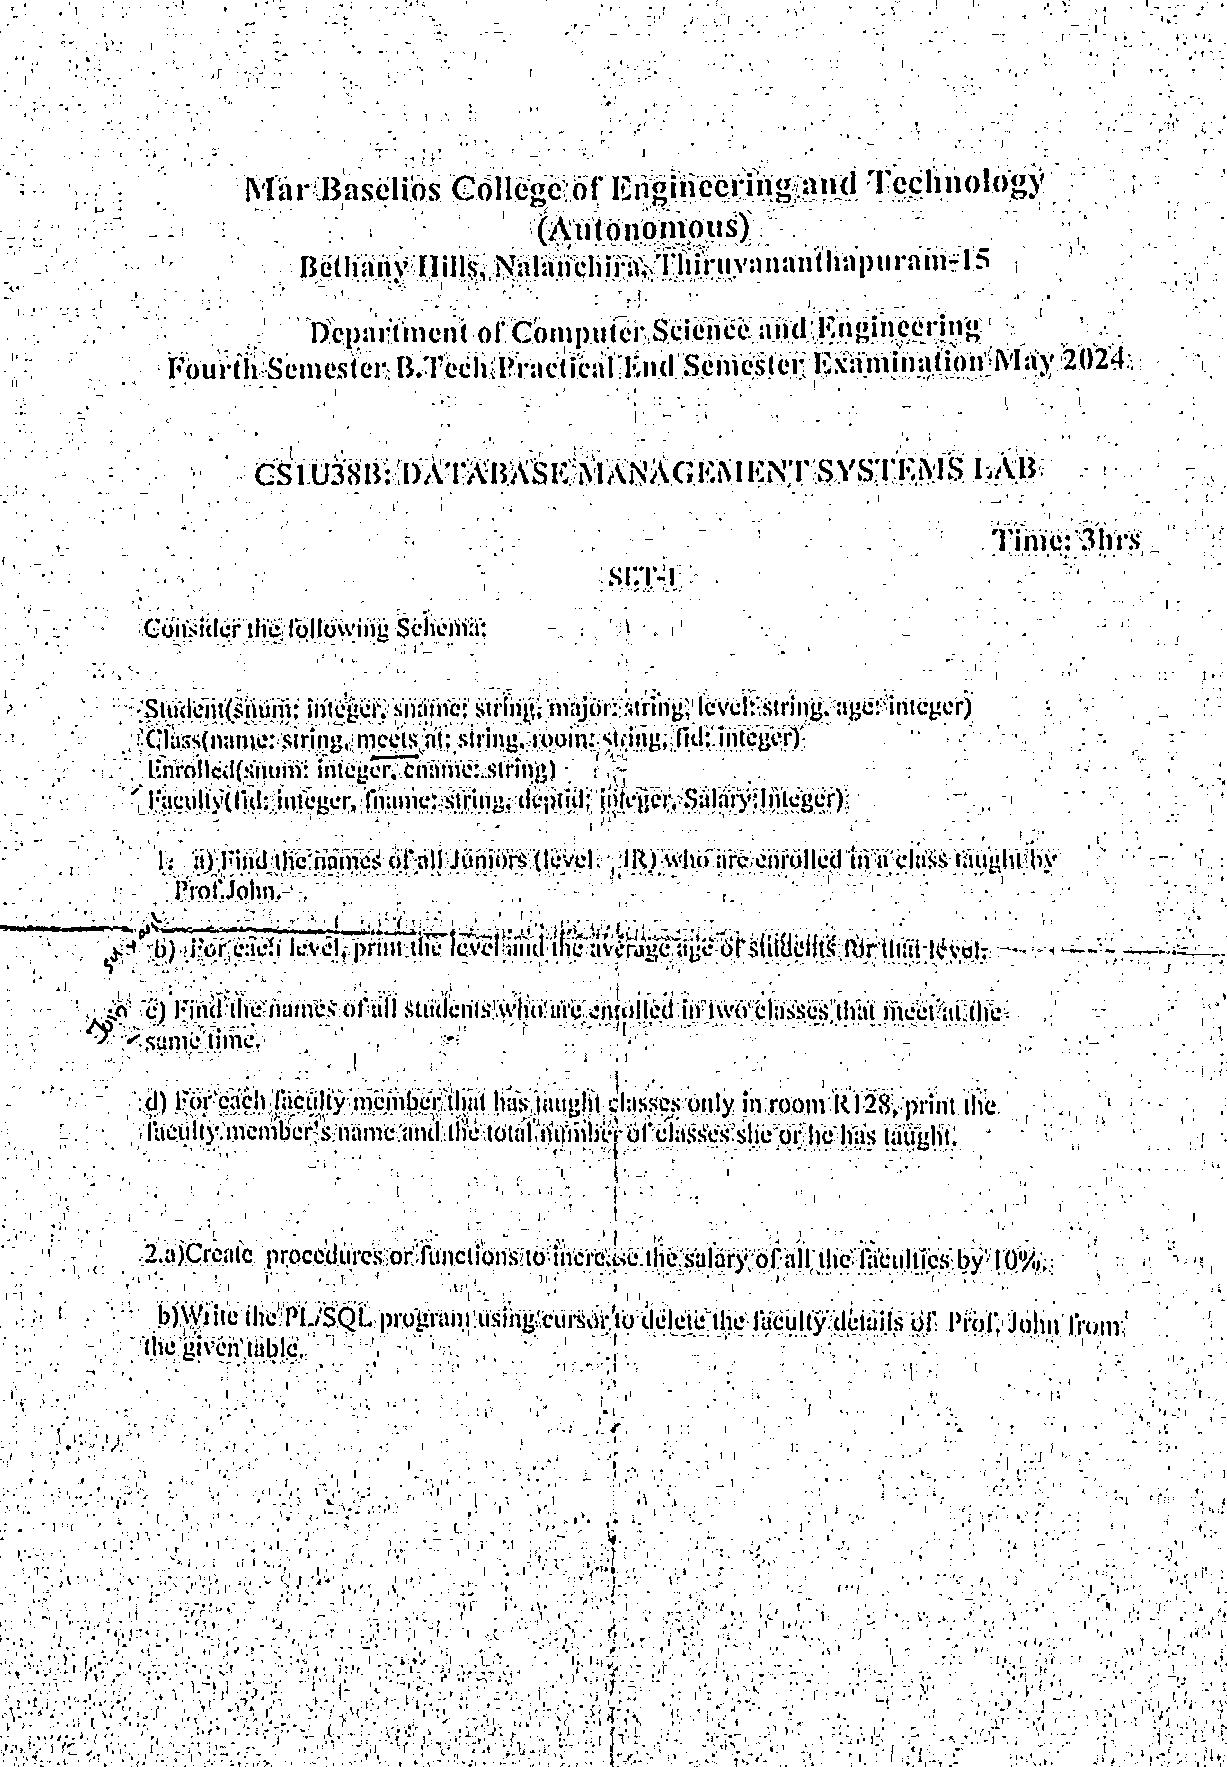
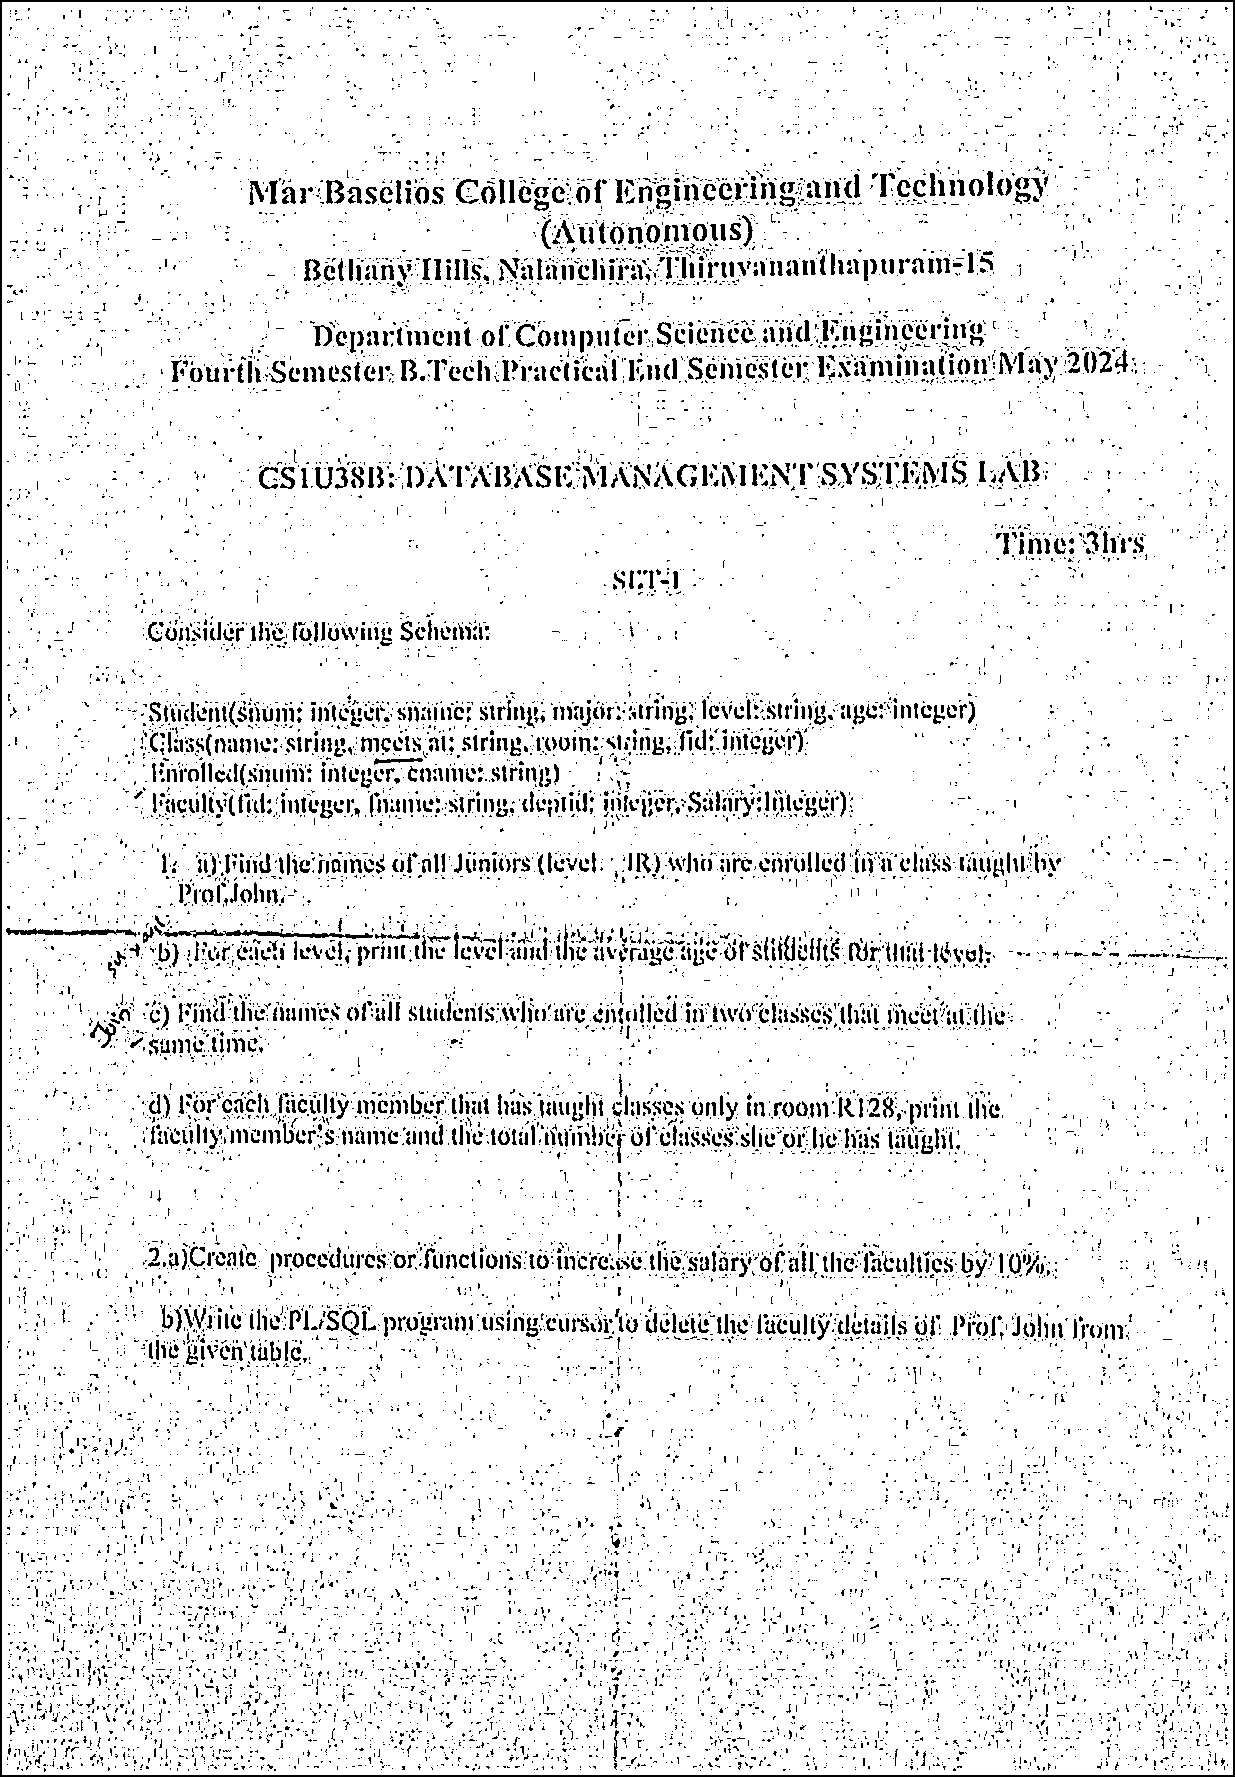
resolved border issue

diff --git a/app.py b/app.py
@@ -64,42 +64,98 @@ def scan_document_image(image_path):
     if image is None:
         logger.error("Image could not be loaded.")
         return None
+    
+    # Make a copy of the original image for later processing
     orig = image.copy()
-    ratio = image.shape[0] / 500.0
-    image_resized = cv2.resize(image, (int(image.shape[1] / ratio), 500))
     
-    # Preprocess: convert to grayscale, blur, edge detection
-    gray = cv2.cvtColor(image_resized, cv2.COLOR_BGR2GRAY)
-    gray = cv2.GaussianBlur(gray, (5, 5), 0)
-    edged = cv2.Canny(gray, 75, 200)
+    # Preprocess: convert to grayscale for better edge detection
+    gray = cv2.cvtColor(image, cv2.COLOR_BGR2GRAY)
+    gray_blurred = cv2.GaussianBlur(gray, (5, 5), 0)
     
-    # Find external contours to ignore inner edges
-    cnts, _ = cv2.findContours(edged.copy(), cv2.RETR_EXTERNAL, cv2.CHAIN_APPROX_SIMPLE)
+    # Try to detect the document's outer boundaries first
+    # We'll use a different approach - find the largest rectangular region
+    
+    # Approach 1: Use edge detection with more adaptive parameters
+    edged = cv2.Canny(gray_blurred, 30, 150)
+    kernel = np.ones((5, 5), np.uint8)
+    dilated = cv2.dilate(edged, kernel, iterations=1)
+    
+    # Find contours from the dilated image
+    cnts, _ = cv2.findContours(dilated.copy(), cv2.RETR_EXTERNAL, cv2.CHAIN_APPROX_SIMPLE)
+    
+    # If no external contours are found, try to enhance the image
+    if not cnts or len(cnts) == 0:
+        # Apply adaptive thresholding to separate document from background
+        gray_thresh = cv2.adaptiveThreshold(gray, 255, 
+                                          cv2.ADAPTIVE_THRESH_GAUSSIAN_C,
+                                          cv2.THRESH_BINARY_INV, 11, 2)
+        # Find contours again
+        cnts, _ = cv2.findContours(gray_thresh, cv2.RETR_EXTERNAL, cv2.CHAIN_APPROX_SIMPLE)
+    
+    # If still no luck, process the whole image
+    if not cnts or len(cnts) == 0:
+        logger.warning("No document boundaries detected. Processing whole image.")
+        # Apply image enhancement directly to the whole image
+        enhanced = cv2.adaptiveThreshold(gray, 255, 
+                                       cv2.ADAPTIVE_THRESH_GAUSSIAN_C,
+                                       cv2.THRESH_BINARY, 11, 2)
+        return enhanced
+    
+    # Sort contours by area (largest first)
     cnts = sorted(cnts, key=cv2.contourArea, reverse=True)
-    screenCnt = None
-
-    # Loop over contours and select the one that approximates to a quadrilateral
+    
+    # Find the contour that likely represents the document
+    pageContour = None
     for c in cnts:
-        # Use area check to ensure the contour is sufficiently large
-        if cv2.contourArea(c) < 0.2 * image_resized.shape[0] * image_resized.shape[1]:
+        # Calculate area percentage to filter out small noise contours
+        area_percentage = cv2.contourArea(c) / (image.shape[0] * image.shape[1])
+        
+        # Skip too small or too large contours
+        if area_percentage < 0.1 or area_percentage > 0.95:
             continue
+            
+        # Approximate the contour
         peri = cv2.arcLength(c, True)
         approx = cv2.approxPolyDP(c, 0.02 * peri, True)
+        
+        # If we have a quadrilateral, it's likely our document
         if len(approx) == 4:
-            screenCnt = approx
+            pageContour = approx
             break
-    if screenCnt is None:
-        logger.error("Document contour not found.")
-        return None
-
-    # Apply the four point transform to obtain a top-down view of the document
-    warped = four_point_transform(orig, screenCnt.reshape(4, 2) * ratio)
-    warped_gray = cv2.cvtColor(warped, cv2.COLOR_BGR2GRAY)
-    scanned = cv2.adaptiveThreshold(warped_gray, 255, 
-                                    cv2.ADAPTIVE_THRESH_GAUSSIAN_C,
-                                    cv2.THRESH_BINARY, 11, 2)
     
-    return scanned
+    # If we found a good document contour, transform it
+    if pageContour is not None:
+        warped = four_point_transform(orig, pageContour.reshape(4, 2))
+        warped_gray = cv2.cvtColor(warped, cv2.COLOR_BGR2GRAY)
+        
+        # Use adaptive thresholding to enhance readability
+        scanned = cv2.adaptiveThreshold(warped_gray, 255, 
+                                      cv2.ADAPTIVE_THRESH_GAUSSIAN_C,
+                                      cv2.THRESH_BINARY, 11, 2)
+        return scanned
+    else:
+        # If we couldn't find a good quadrilateral, use the largest contour
+        x, y, w, h = cv2.boundingRect(cnts[0])
+        
+        # Check if the bounding rectangle is reasonable
+        area_percentage = (w * h) / (image.shape[0] * image.shape[1])
+        
+        if area_percentage > 0.3:  # Reasonable size
+            # Crop the image to the bounding rectangle
+            cropped = image[y:y+h, x:x+w]
+            cropped_gray = cv2.cvtColor(cropped, cv2.COLOR_BGR2GRAY)
+            
+            # Enhance the cropped image
+            enhanced = cv2.adaptiveThreshold(cropped_gray, 255, 
+                                           cv2.ADAPTIVE_THRESH_GAUSSIAN_C,
+                                           cv2.THRESH_BINARY, 11, 2)
+            return enhanced
+        else:
+            # Just process the whole image as a fallback
+            enhanced = cv2.adaptiveThreshold(gray, 255, 
+                                           cv2.ADAPTIVE_THRESH_GAUSSIAN_C,
+                                           cv2.THRESH_BINARY, 11, 2)
+            return enhanced
 
 # ----------------------------
 # Flask Routes
